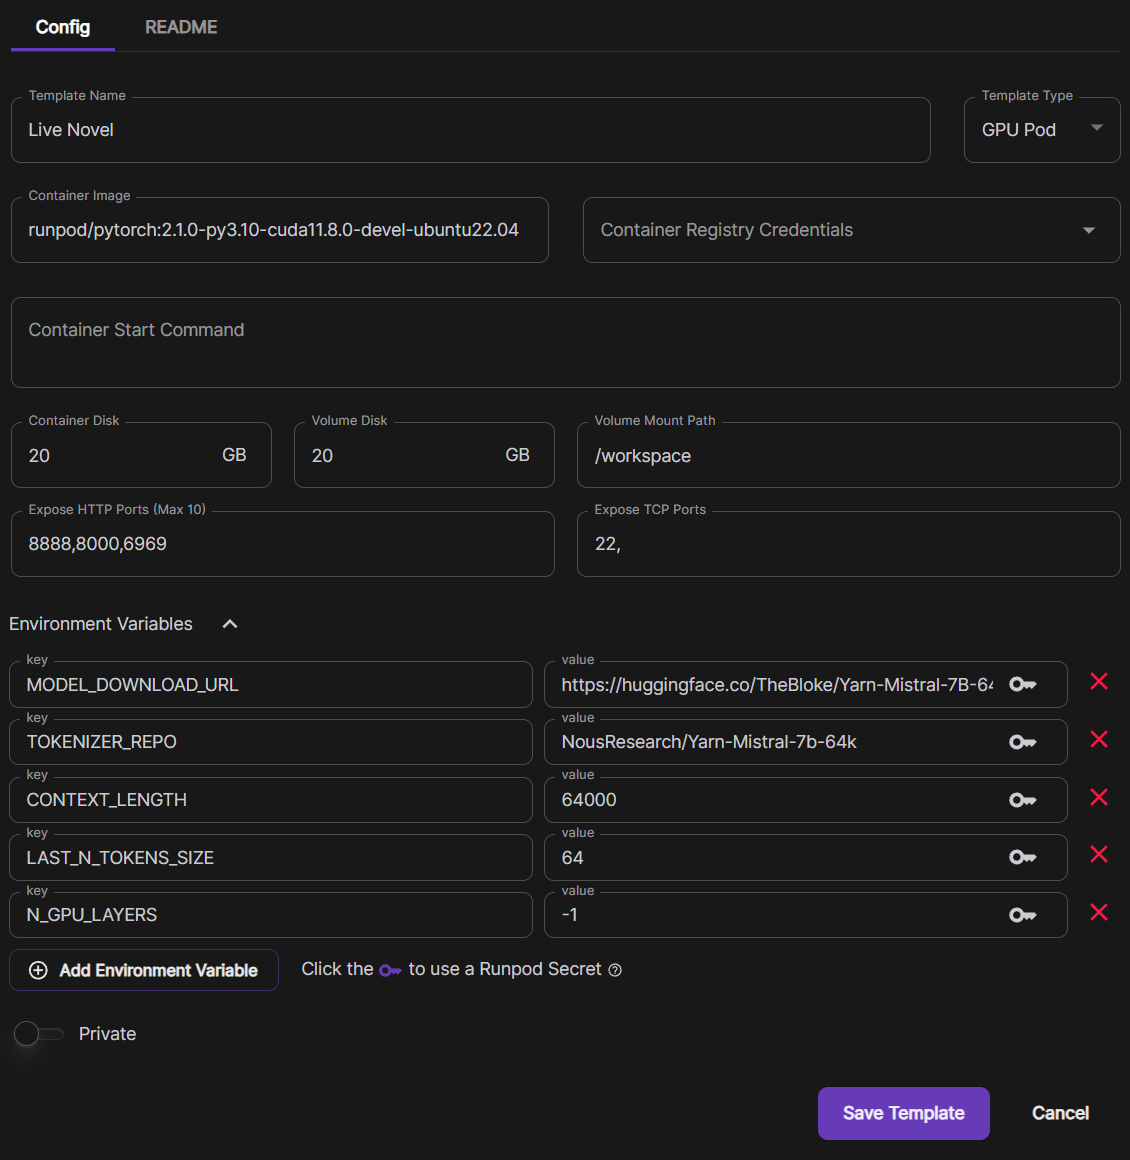
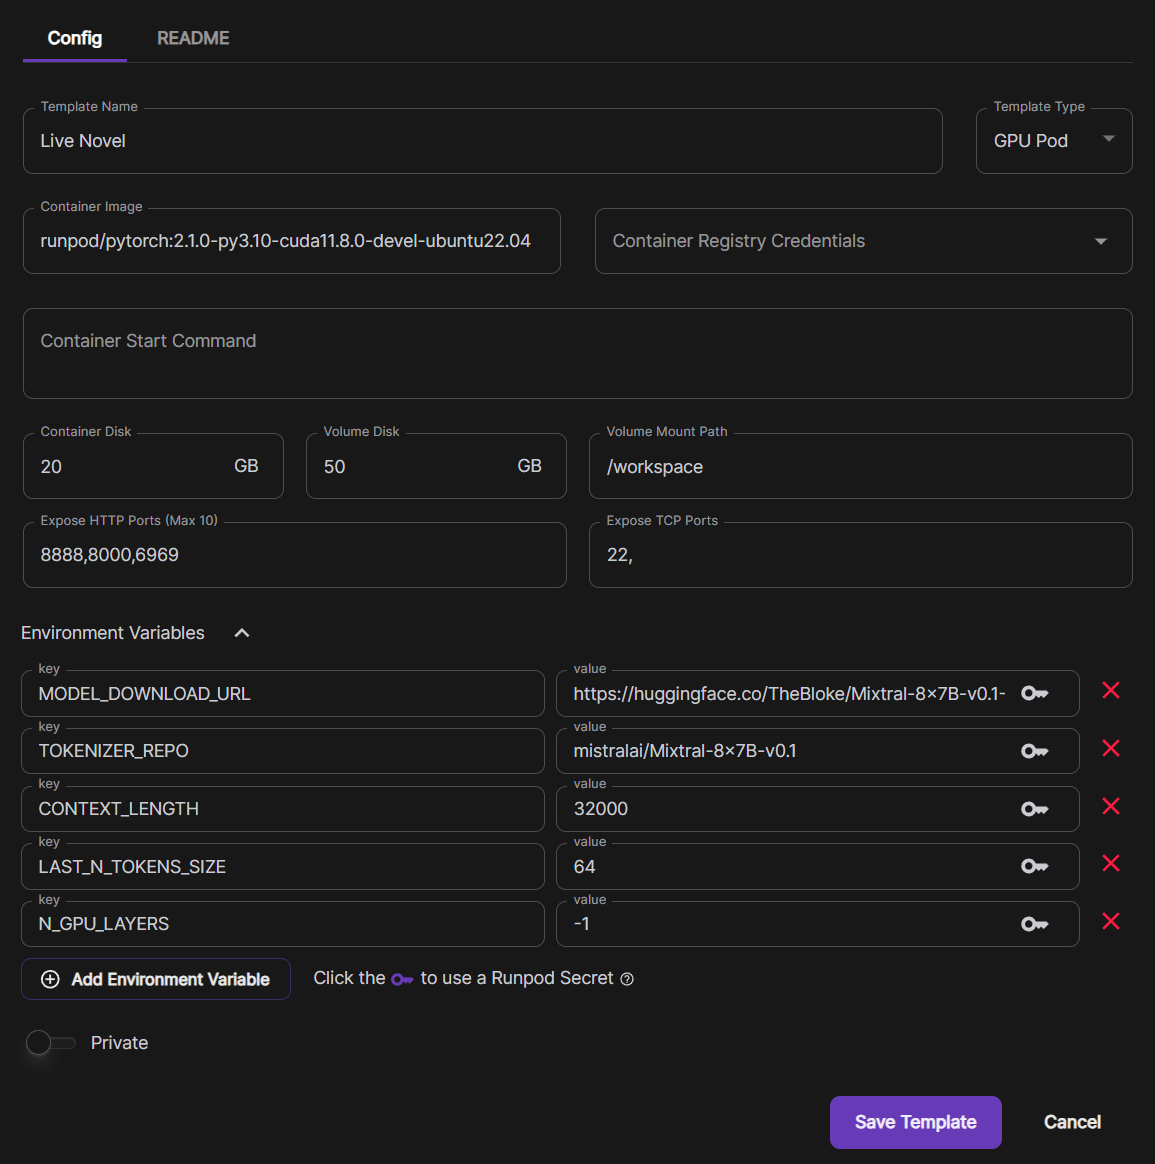
Parallel model download and updater readme.

diff --git a/README.md b/README.md
@@ -8,7 +8,9 @@ Live Novel uses an LLM to make a novel-like adventure. Some initial text is prov
 ![alt text](<readme images/live novel nominal.png>)
 
 This repo contains files to quickly install and run Live Novel on a Runpod pod.
-This has been tested with Mistral-7b-64k, but theoretically any text generative model could be used.
+This has been tested with Mistral-7b-64k-GGUF and Mixtral-8x7B-v0.1-GGUF, but theoretically any text generative model (with GGUF format) could be used.
+
+This branch is identical to the original mistral-7b one, but it has settings tailored for mixtral in the readme and can download the model in parallel to the installation to speed up the startup.
 
 It is faster to clone and run installation scripts every time a new pod is created, rather than creating an image with live novel already installed.
 
@@ -45,7 +47,7 @@ To launch a pod setup with all the needed for live novel,  a Runpod template lik
 | Container Registry Credentials| | None |
 | Container Start Command|| None|
 | Container Disk | 20 GB ||
-| Volume Disk| 20 GB||
+| Volume Disk| 50 GB| Must be enough to download the model. |
 | Volume Mounth Path| /workspace ||
 | Expose HTTP Ports | 8888,8000,6969| 8888 is used for JupyterLab used to access a shell, 8000 is used for the user to access the app via browser, 6969 is used by the frontend to access the backend |
 | Expose TCP Ports| 22, | |
@@ -53,9 +55,9 @@ To launch a pod setup with all the needed for live novel,  a Runpod template lik
 And the following enviromental variable must be added
 | Key | Value | Notes |
 | -------- | -------- | -------- |
-| MODEL_DOWNLOAD_URL | https://huggingface.co/TheBloke/Yarn-Mistral-7B-64k-GGUF/resolve/main/yarn-mistral-7b-64k.Q5_K_M.gguf?download=true | URL to download the desired model, in my case Mistral7b 64k context qantized Q5_K_M | 
-| TOKENIZER_REPO | NousResearch/Yarn-Mistral-7b-64k | Adress od hugging face repo of the model, where can be found the tokenizer of the downloaded model. |
-| CONTEXT_LENGTH | 64000 | Maximum text length the model can tolerate (in tokens) |
+| MODEL_DOWNLOAD_URL | https://huggingface.co/TheBloke/Mixtral-8x7B-v0.1-GGUF/resolve/main/mixtral-8x7b-v0.1.Q5_K_M.gguf?download=true | URL to download the desired model, in my case Mixtral qantized Q5_K_M | 
+| TOKENIZER_REPO | mistralai/Mixtral-8x7B-v0.1 | Adress od hugging face repo of the model, where can be found the tokenizer of the downloaded model. |
+| CONTEXT_LENGTH | 32000 | Maximum text length the model can tolerate (in tokens) |
 | LAST_N_TOKENS_SIZE | 64 | Maximum number of tokens to keep in the last_n_tokens deque. |
 | N_GPU_LAYERS | -1 | Number of layer to load in the GPU (-1 is all of them), if they cannot all fit in the GPU it might crash. But this settings works fine for the described model and setup. |
 
@@ -65,7 +67,8 @@ And the following enviromental variable must be added
 
 ## Every Launch Installation
 
-To run the application the template must be deployed in a new pod. For this model I use a RTX 4000 Ada from the Community Cloud. Currently $0.21/hr.
+To run the application the template must be deployed in a new pod. For this model I use a RTX 6000 Ada from the Community Cloud, should work also on 2 RTX 4000 ada. Currently $0.21/hr.
+'''''''''''''''''''''''''''''''''''''''''''''''''''''''''''''''''''''''''''''' check GPU
 
 Once the pod has beed deployed must go to Connect and connect to the Jupiter lab Port that should be purple.
 ![alt text](<readme images/connect to jupyter lab.png>)
